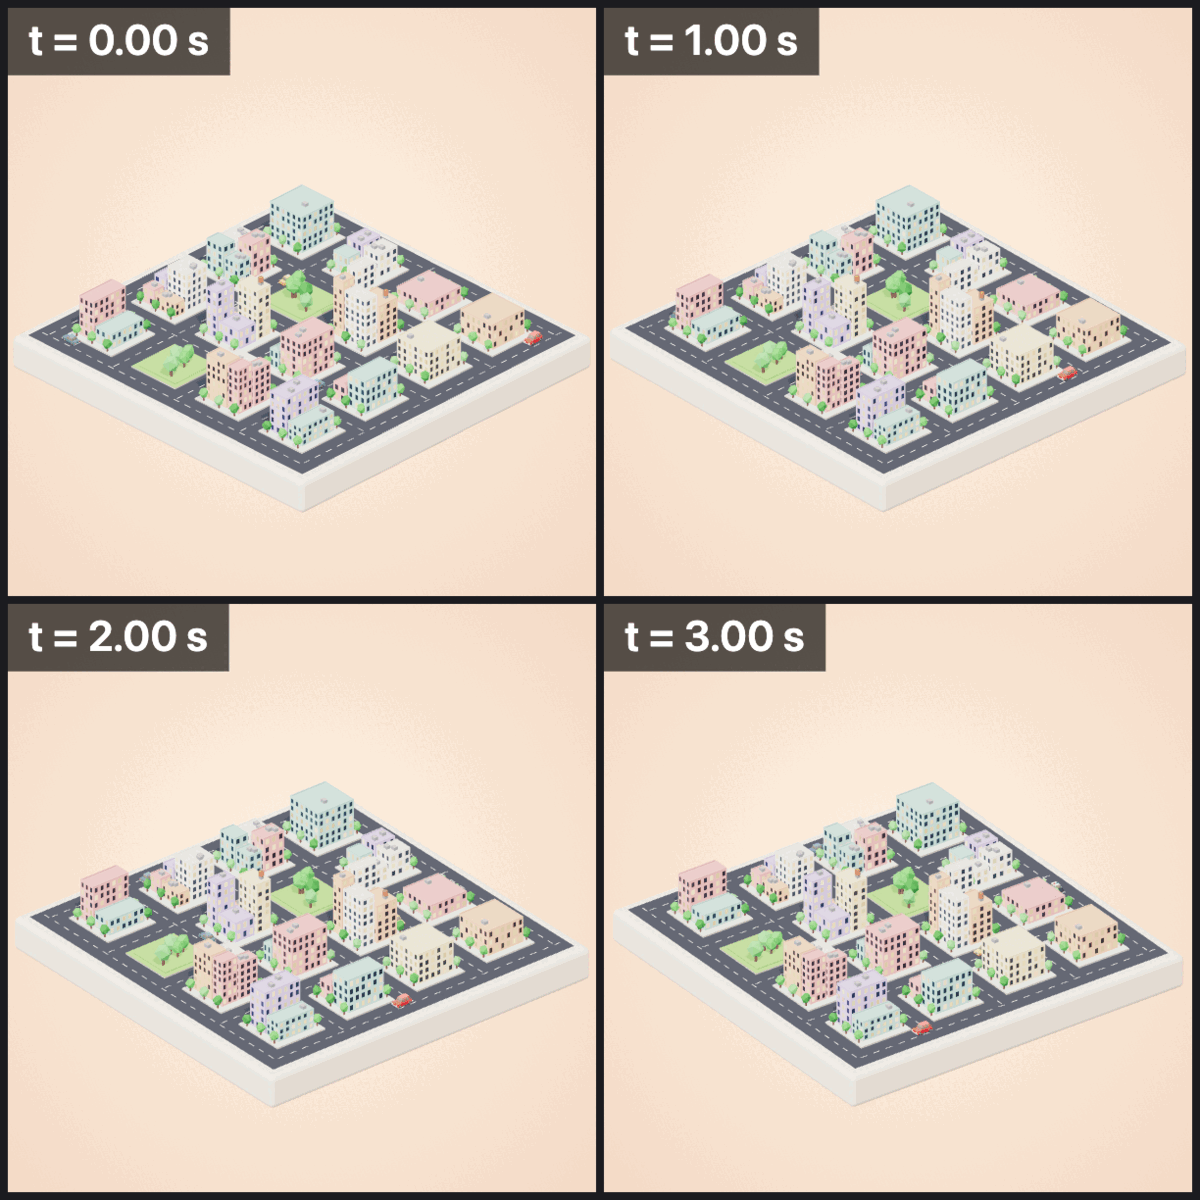
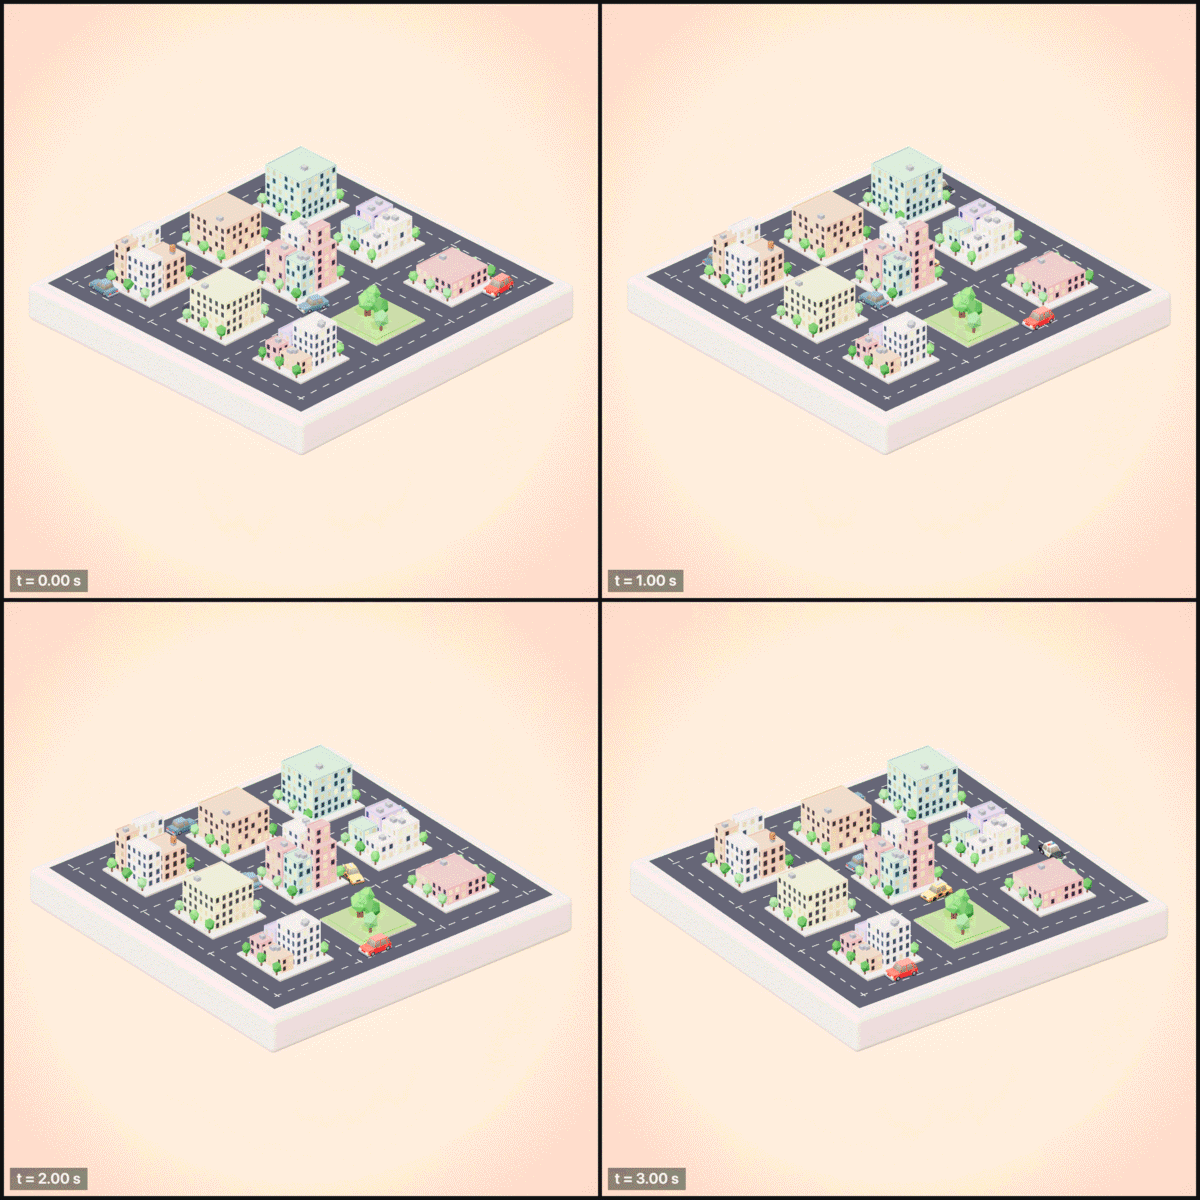
templates: diorama-city reframed (3x3 blocks, wider streets, toy-scale vehicles, closer zoom, slab centred vertically); character-showcase preview regenerated

diff --git a/templates/diorama-city/README.md b/templates/diorama-city/README.md
@@ -1,6 +1,6 @@
 # Isometric city diorama
 
-A 1:1 Townscaper-style miniature: a procedural `city` (4×4 blocks of pastel buildings with windows, parks and street trees) on a rounded clay slab, seen through an **orthographic** isometric camera that turns slowly (drag to orbit, polar angle limited). Five library vehicles (taxi, sedans, police car, hatchback) drive around two street loops with the `path` behaviour (right-hand traffic, softened corners).
+A 1:1 Townscaper-style miniature: a procedural `city` (3×3 blocks of pastel buildings with windows, parks and street trees) on a rounded clay slab, seen through an **orthographic** isometric camera that turns slowly (drag to orbit, polar angle limited). Five library vehicles (taxi, sedans, police car, hatchback), scaled up toy-style (`fit: 1.8`), drive around two street loops with the `path` behaviour (right-hand traffic, softened corners).
 
 ## What to tweak
 
@@ -10,8 +10,8 @@ A 1:1 Townscaper-style miniature: a procedural `city` (4×4 blocks of pastel bui
 | Building colours / heights | `objects#city.params.colors`, `.minHeight`, `.maxHeight` |
 | Night mode | `objects#city.params.windowColor` stays lit: set `environment.background.radial: ["#2a2f5a", "#11132a"]`, `environment.lighting: "night"`, `lights#sun.intensity: 0.4`, add `postfx: [{"type": "bloom", "strength": 0.8, "threshold": 0.6}]` |
 | Vehicles | `objects#taxi/sedan/police/hatch/truck.src` (any `library:models/vehicles/*.glb`), speed = `path.duration` (s per lap) |
-| Framing | `camera.zoom` (world units visible vertically; 38 keeps the slab in frame at every angle) |
+| Framing | `camera.zoom` (world units visible vertically; 34.5 keeps the slab in frame at every angle), `camera.target` (y −1.2 centres the slab + buildings vertically) |
 
 ## Street coordinates (for your own paths)
 
-With `blocks: 4`, `blockSize: 4`, `street: 1.8` the street centre lines are at x / z = −11.6, −5.8, 0, 5.8, 11.6. Lanes are ±0.45 from a centre line; the two loops use 5.35 (inner) and 11.15 (outer). If you change the city params, recompute: `c_k = -total/2 + street/2 + k·(blockSize + street)` with `total = blocks·blockSize + (blocks+1)·street`.
+With `blocks: 3`, `blockSize: 4`, `street: 2.2` the street centre lines are at x / z = −9.3, −3.1, 3.1, 9.3. Lanes are ±0.55 from a centre line; the two loops use 2.55 (inner, around the central block) and 8.75 (outer). If you change the city params, recompute: `c_k = -total/2 + street/2 + k·(blockSize + street)` with `total = blocks·blockSize + (blocks+1)·street`.
